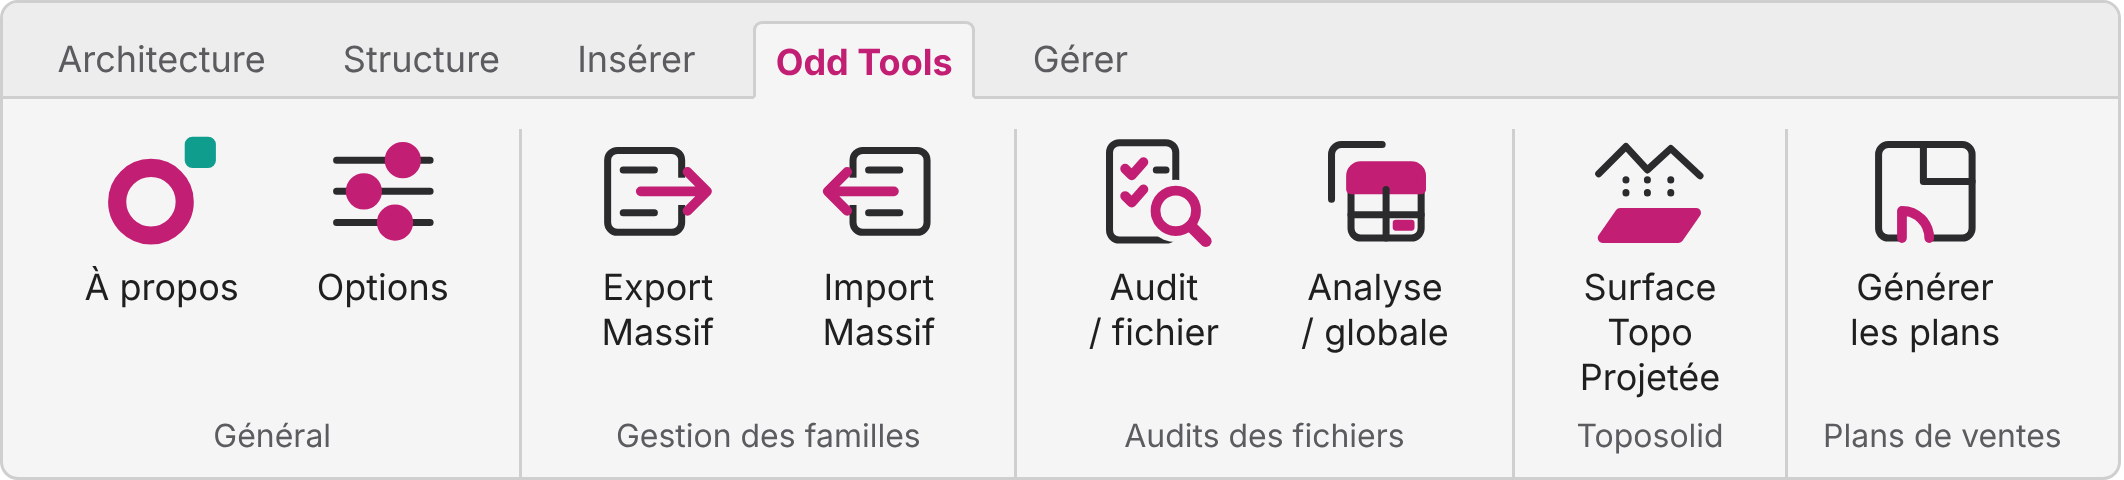
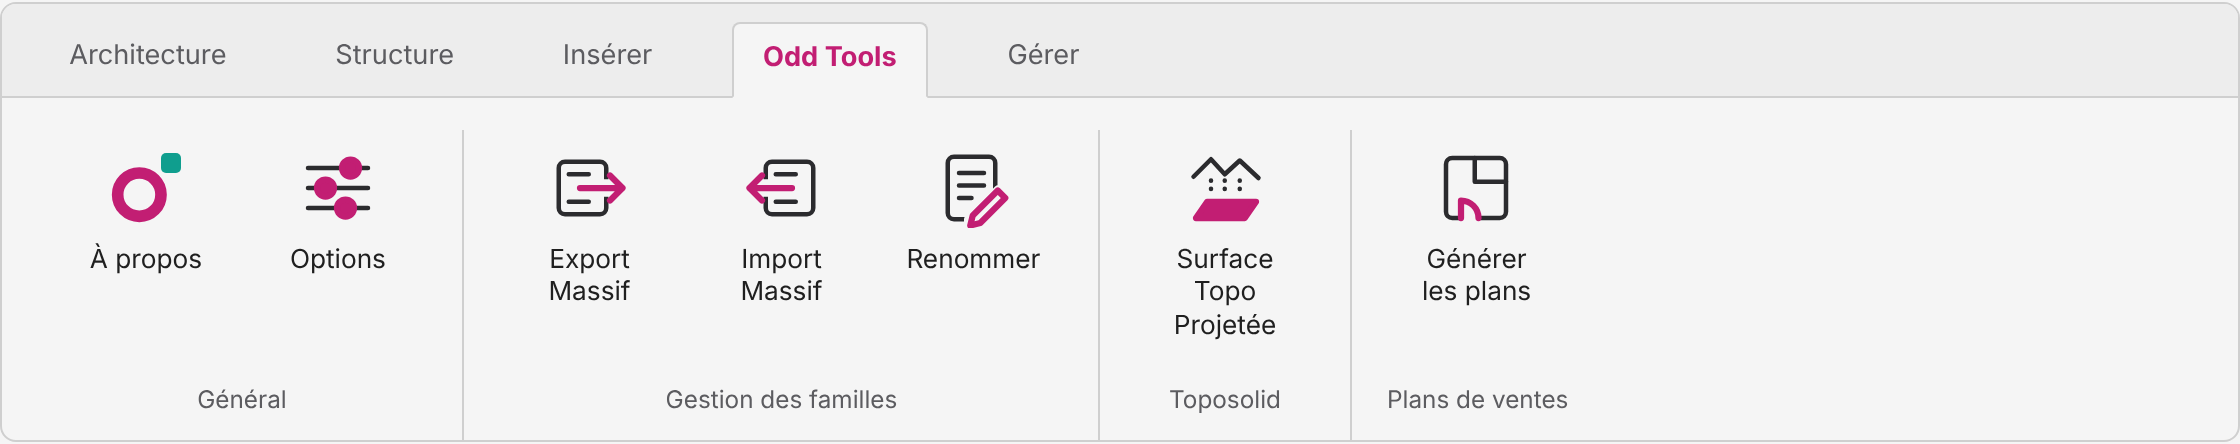
Site 0.13 : retrait de l'Audit, ajout de Renommer, nouveau ruban

diff --git a/index.html b/index.html
@@ -4,7 +4,7 @@
 <meta charset="utf-8">
 <meta name="viewport" content="width=device-width, initial-scale=1">
 <title>Odd Tools, des outils pour Revit</title>
-<meta name="description" content="Odd Tools ajoute un onglet à Revit : plans de ventes, gestion massive des familles, audit des maquettes et calcul de surfaces projetées.">
+<meta name="description" content="Odd Tools ajoute un onglet à Revit : plans de ventes, gestion massive des familles et calcul de surfaces projetées.">
 <link rel="icon" href="assets/favicon.svg" type="image/svg+xml">
 <link rel="stylesheet" href="style.css">
 <script>try{var t=localStorage.getItem("oddtools-theme");if(t==="light"||t==="dark")document.documentElement.dataset.theme=t}catch(e){}</script>
@@ -23,7 +23,7 @@
   <main>
   <div class="hero">
     <h1>Des outils Revit simples, rapides et sur mesure.</h1>
-    <p class="lead">Odd Tools ajoute un onglet à Revit pour les tâches répétitives des projets BIM : plans de ventes, familles en masse, audit des maquettes, surfaces de terrain.</p>
+    <p class="lead">Odd Tools ajoute un onglet à Revit pour les tâches répétitives des projets BIM : plans de ventes, familles en masse, surfaces de terrain.</p>
     <div class="cta">
       <a class="btn primary" href="#outils">Voir les outils</a>
       <a class="btn line" href="#installation">Installation</a>
@@ -34,8 +34,7 @@
         <div class="tabs"><span>Architecture</span><span>Structure</span><span>Insérer</span><span class="on">Odd Tools</span><span>Gérer</span></div>
         <div class="bar">
           <div class="group"><div class="keys"><a class="key" href="#general"><img class="l" src="assets/icons/light/about.svg" alt="" width="64" height="64"><img class="d" src="assets/icons/dark/about.svg" alt="" width="64" height="64"><span>À propos<br>&nbsp;</span></a><a class="key" href="#general"><img class="l" src="assets/icons/light/options.svg" alt="" width="64" height="64"><img class="d" src="assets/icons/dark/options.svg" alt="" width="64" height="64"><span>Options<br>&nbsp;</span></a></div><div class="gname">Général</div></div>
-          <div class="group"><div class="keys"><a class="key" href="#familles"><img class="l" src="assets/icons/light/export.svg" alt="" width="64" height="64"><img class="d" src="assets/icons/dark/export.svg" alt="" width="64" height="64"><span>Export<br>Massif</span></a><a class="key" href="#familles"><img class="l" src="assets/icons/light/import.svg" alt="" width="64" height="64"><img class="d" src="assets/icons/dark/import.svg" alt="" width="64" height="64"><span>Import<br>Massif</span></a></div><div class="gname">Gestion des familles</div></div>
-          <div class="group"><div class="keys"><a class="key" href="#audit"><img class="l" src="assets/icons/light/audit.svg" alt="" width="64" height="64"><img class="d" src="assets/icons/dark/audit.svg" alt="" width="64" height="64"><span>Audit<br>/ fichier</span></a><a class="key" href="#audit"><img class="l" src="assets/icons/light/auditglobal.svg" alt="" width="64" height="64"><img class="d" src="assets/icons/dark/auditglobal.svg" alt="" width="64" height="64"><span>Analyse<br>/ globale</span></a></div><div class="gname">Audits des fichiers</div></div>
+          <div class="group"><div class="keys"><a class="key" href="#familles"><img class="l" src="assets/icons/light/export.svg" alt="" width="64" height="64"><img class="d" src="assets/icons/dark/export.svg" alt="" width="64" height="64"><span>Export<br>Massif</span></a><a class="key" href="#familles"><img class="l" src="assets/icons/light/import.svg" alt="" width="64" height="64"><img class="d" src="assets/icons/dark/import.svg" alt="" width="64" height="64"><span>Import<br>Massif</span></a><a class="key" href="#familles"><img class="l" src="assets/icons/light/rename.svg" alt="" width="64" height="64"><img class="d" src="assets/icons/dark/rename.svg" alt="" width="64" height="64"><span>Renommer<br>&nbsp;</span></a></div><div class="gname">Gestion des familles</div></div>
           <div class="group"><div class="keys"><a class="key" href="#topo"><img class="l" src="assets/icons/light/projectedarea.svg" alt="" width="64" height="64"><img class="d" src="assets/icons/dark/projectedarea.svg" alt="" width="64" height="64"><span>Surface Topo<br>Projetée</span></a></div><div class="gname">Toposolid</div></div>
           <div class="group"><div class="keys"><a class="key" href="#plans"><img class="l" src="assets/icons/light/plans.svg" alt="" width="64" height="64"><img class="d" src="assets/icons/dark/plans.svg" alt="" width="64" height="64"><span>Générer<br>les plans</span></a></div><div class="gname">Plans de ventes</div></div>
         </div>
@@ -62,32 +61,18 @@
     </article>
 
     <article class="tool" id="familles">
-      <div class="pics"><span><img class="l" src="assets/icons/light/export.svg" alt="" width="64" height="64"><img class="d" src="assets/icons/dark/export.svg" alt="" width="64" height="64"></span><span><img class="l" src="assets/icons/light/import.svg" alt="" width="64" height="64"><img class="d" src="assets/icons/dark/import.svg" alt="" width="64" height="64"></span></div>
+      <div class="pics"><span><img class="l" src="assets/icons/light/export.svg" alt="" width="64" height="64"><img class="d" src="assets/icons/dark/export.svg" alt="" width="64" height="64"></span><span><img class="l" src="assets/icons/light/import.svg" alt="" width="64" height="64"><img class="d" src="assets/icons/dark/import.svg" alt="" width="64" height="64"></span><span><img class="l" src="assets/icons/light/rename.svg" alt="" width="64" height="64"><img class="d" src="assets/icons/dark/rename.svg" alt="" width="64" height="64"></span></div>
       <div>
         <h3>Gestion des familles</h3>
-        <div class="where">Export massif et Import massif</div>
-        <p>Exportez toutes les familles chargeables d'un projet dans un dossier, ou chargez-en des dizaines d'un coup depuis un dossier.</p>
+        <div class="where">Export massif, Import massif et Renommer</div>
+        <p>Exportez toutes les familles chargeables d'un projet dans un dossier, chargez-en des dizaines d'un coup depuis un dossier, ou renommez en lot les familles et leurs types.</p>
       </div>
       <ul>
         <li>Un sous-dossier par catégorie, au choix</li>
         <li>Version de Revit ajoutée au nom de fichier</li>
         <li>Famille déjà présente : ignorer ou remplacer, en gardant ou non les valeurs de paramètres</li>
         <li>Doublons repérés à l'import</li>
-      </ul>
-    </article>
-
-    <article class="tool" id="audit">
-      <div class="pics"><span><img class="l" src="assets/icons/light/audit.svg" alt="" width="64" height="64"><img class="d" src="assets/icons/dark/audit.svg" alt="" width="64" height="64"></span><span><img class="l" src="assets/icons/light/auditglobal.svg" alt="" width="64" height="64"><img class="d" src="assets/icons/dark/auditglobal.svg" alt="" width="64" height="64"></span></div>
-      <div>
-        <h3>Audit des fichiers</h3>
-        <div class="where">Audit par fichier et Analyse globale</div>
-        <p>Un audit en lecture seule des projets ouverts : un onglet par section et un export Excel automatique. L'analyse globale assemble plusieurs audits dans un tableau comparatif.</p>
-        <details><summary>Les 15 sections de l'audit</summary><ul class="chips"><li>Fichier</li><li>Imports CAD et liens</li><li>Familles chargeables</li><li>Familles système</li><li>Groupes</li><li>Vues et feuilles</li><li>Gabarits de vue</li><li>Détails 2D et matériaux</li><li>Niveaux et contraintes</li><li>Position du projet</li><li>Pièces</li><li>Phases</li><li>Variantes (options de conception)</li><li>Paramètres du projet</li><li>Nomenclatures</li></ul></details>
-      </div>
-      <ul>
-        <li>15 sections d'analyse</li>
-        <li>Indicateurs de couleur : conforme, à surveiller, à corriger</li>
-        <li>Plusieurs projets comparés d'un coup d'œil</li>
+        <li>Renommage en lot : filtres, préfixe et suffixe, rechercher et remplacer, aperçu avant d'appliquer</li>
       </ul>
     </article>
 
@@ -121,14 +106,14 @@
   <section id="installation" style="padding-top:1rem">
     <h2>Installation à la carte</h2>
     <div class="cols">
-      <div class="col"><h3>Un installateur par panneau</h3><p>Familles, Audit, Topographie ou Plans de ventes : n'installez que ce dont vous avez besoin.</p></div>
+      <div class="col"><h3>Un installateur par panneau</h3><p>Familles, Topographie ou Plans de ventes : n'installez que ce dont vous avez besoin.</p></div>
       <div class="col"><h3>Ou le pack complet</h3><p>Tous les panneaux en une seule installation. Les installateurs se cumulent, dans l'ordre que vous voulez.</p></div>
       <div class="col"><h3>Sans droits administrateur</h3><p>L'installation se fait pour l'utilisateur. La désinstallation est propre depuis Windows et vos réglages sont conservés.</p></div>
     </div>
     <div class="versions">
       <h3>Compatible avec</h3>
       <ul><li>Revit 2021</li><li>Revit 2022</li><li>Revit 2023</li><li>Revit 2024</li><li>Revit 2025</li><li>Revit 2026</li><li>Revit 2027</li></ul>
-      <p class="hint" style="flex-basis:100%;margin-top:0">Plans de ventes et Topographie sont disponibles à partir de Revit 2025 ; Gestion des familles et Audit, de Revit 2021 à 2027.</p>
+      <p class="hint" style="flex-basis:100%;margin-top:0">Plans de ventes et Topographie sont disponibles à partir de Revit 2025 ; Gestion des familles, de Revit 2021 à 2027.</p>
     </div>
   </section>
   </main>
@@ -137,7 +122,7 @@
     <div class="wrap inner" style="padding-block:clamp(2.5rem,6vw,4rem)">
       <div>
         <h2>Téléchargement</h2>
-        <p>Odd Tools est en version bêta 0.12. Les installateurs ne sont pas encore publics.</p>
+        <p>Odd Tools est en version bêta 0.13. Les installateurs ne sont pas encore publics.</p>
       </div>
       <div class="badge">Bientôt disponible</div>
     </div>
@@ -148,7 +133,7 @@
   <div class="wrap">
     <a class="brand" href="#" aria-label="Odd Tools"><svg viewBox="0 0 48 48" aria-hidden="true"><circle class="mark-ring" cx="20" cy="28" r="13" fill="none" stroke-width="7"/><rect class="mark-sq" x="33" y="3" width="12" height="12" rx="3"/></svg><span><b>Odd</b> Tools</span></a>
     <span>Contact : <a href="mailto:odd.tools.dev@gmail.com">odd.tools.dev@gmail.com</a></span>
-    <span>Version 0.12 Beta</span>
+    <span>Version 0.13 Beta</span>
   </div>
 </footer>
 

diff --git a/README.md b/README.md
@@ -21,12 +21,11 @@ Odd Tools ajoute un onglet à Revit (2021 à 2027) pour les tâches répétitive
 | Outil | Ce qu'il fait |
 |---|---|
 | **Plans de ventes** | Crée, pour chaque logement, une vue de plan orientée selon la porte d'entrée, une nomenclature et une feuille. |
-| **Gestion des familles** | Export et import massifs de familles, avec gestion des doublons. |
-| **Audit des fichiers** | Audit en lecture seule des projets (15 sections), export Excel et analyse comparative de plusieurs audits. |
+| **Gestion des familles** | Export et import massifs de familles, avec gestion des doublons, et renommage en lot des familles et de leurs types. |
 | **Surface Topo Projetée** | Calcule la surface projetée au sol des Toposolids et l'écrit dans un paramètre. |
 
 Les fenêtres suivent le thème de Revit, ou un thème clair ou sombre au choix, et existent en français et en anglais.
 
-**Version 0.12 Beta.** Les installateurs ne sont pas encore publics.
+**Version 0.13 Beta.** Les installateurs ne sont pas encore publics.
 
 Contact : [odd.tools.dev@gmail.com](mailto:odd.tools.dev@gmail.com)
